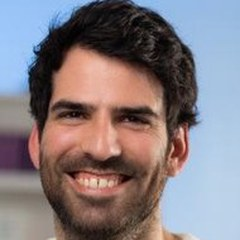
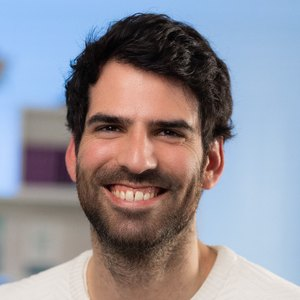
Livre : photos endosseurs couleur, couverture 3D réaliste, en-tête avis Amazon, liens alignés

diff --git a/src/pages/Livre.tsx b/src/pages/Livre.tsx
@@ -91,12 +91,12 @@ export default function Livre() {
       <a href={PDF || AMZ} rel={PDF ? undefined : amzRel} className="btn mt-7">{PDF ? "Lire les 27 premières pages" : "Feuilleter sur Amazon"}</a>
       {PDF && <p className="mt-4"><a href={SAMPLE} target="_blank" rel="sponsored noopener" className="inline-flex min-h-[44px] items-center font-semibold text-terra underline underline-offset-4">Feuilleter sur Amazon</a></p>}</Reveal>
       {PDF && <Reveal className="mt-12"><a href={PDF} aria-label="Ouvrir l'extrait PDF"><img src="/img/extrait-double-page.webp" alt="Double page d'ouverture de l'introduction du livre : Tout commence par nos habitudes" width="1100" height="778" loading="lazy" className="mx-auto w-full rounded-lg border border-sable shadow-2xl transition hover:-translate-y-1"/></a></Reveal>}</section>
-    <section className="bg-pale"><div className="mx-auto max-w-5xl px-5 py-20"><Reveal><div className="kicker">Avis Amazon.fr, achats vérifiés</div><h2 className="h2 mt-3">Ce qu'en disent les lecteurs.</h2></Reveal>
-      <div className="mt-8 grid gap-6 md:grid-cols-3">{reviews.map((r, i) => <Reveal key={r.a} delay={i * 100}><figure className="card h-full p-6"><Stars n={r.s}/><blockquote className="mt-3">« <Hl t={r.q}/> »</blockquote><figcaption className="mt-4 text-sm text-ink/60"><b className="text-ink">{r.a}</b>, Amazon.fr, {r.d}</figcaption></figure></Reveal>)}</div>
+    <section className="bg-pale"><div className="mx-auto max-w-5xl px-5 py-20"><Reveal><div className="kicker">Avis lecteurs vérifiés</div><h2 className="h2 mt-3">Ce qu'en disent les lecteurs.</h2><h3 className="mt-10 text-2xl">Avis Amazon <span className="text-base font-semibold text-ink/60">· 364 avis, 4,5 / 5</span></h3></Reveal>
+      <div className="mt-6 grid gap-6 md:grid-cols-3">{reviews.map((r, i) => <Reveal key={r.a} delay={i * 100}><figure className="card h-full p-6"><Stars n={r.s}/><blockquote className="mt-3">« <Hl t={r.q}/> »</blockquote><figcaption className="mt-4 text-sm text-ink/60"><b className="text-ink">{r.a}</b>, Amazon.fr, {r.d}</figcaption></figure></Reveal>)}</div>
       <h3 className="mt-14 text-2xl">Avis Fnac <span className="text-base font-semibold text-ink/60">· 14 avis, 4,9 / 5</span></h3>
       <div className="mt-6 grid gap-6 md:grid-cols-3">{fnac.map(r => <figure key={r.a} className="card h-full p-6"><Stars n={5}/><blockquote className="mt-3">« <Hl t={r.q}/> »</blockquote><figcaption className="mt-4 text-sm text-ink/60"><b className="text-ink">{r.a}</b>, Avis Fnac, {r.d}{r.v ? ", achat vérifié" : ""}</figcaption></figure>)}</div>
-      <div className="mt-6 flex flex-wrap gap-x-6"><a href={FNAC} target="_blank" rel="noopener" className="inline-flex min-h-[44px] items-center font-bold text-terra underline underline-offset-4">Lire les avis sur la Fnac</a>
-      <a href={AMZ + "#customerReviews"} rel={amzRel} className="mt-6 inline-flex min-h-[44px] items-center font-bold text-terra underline underline-offset-4">Lire les 364 avis sur Amazon</a></div>
+      <div className="mt-8 flex flex-wrap items-center gap-x-8 gap-y-2"><a href={FNAC} target="_blank" rel="noopener" className="inline-flex min-h-[44px] items-center font-bold text-terra underline underline-offset-4">Lire les avis sur la Fnac</a>
+      <a href={AMZ + "#customerReviews"} rel={amzRel} className="inline-flex min-h-[44px] items-center font-bold text-terra underline underline-offset-4">Lire les 364 avis sur Amazon</a></div>
     </div></section>
     <section className="mx-auto grid max-w-5xl items-center gap-10 px-5 py-20 md:grid-cols-[.6fr_1.4fr]"><Reveal><img src={`${A}/portrait-studio.webp`} alt="Portrait d'Onur Karapinar" width="640" height="640" loading="lazy" className="mx-auto w-full max-w-[260px] rotate-2 rounded-3xl shadow-xl"/></Reveal>
       <Reveal delay={100}><div className="kicker">L'auteur</div><h2 className="h2 mt-3">Qui l'a écrit.</h2>

diff --git a/src/index.css b/src/index.css
@@ -23,11 +23,15 @@ body{font-size:17px;line-height:1.65} p{text-wrap:pretty}
 @keyframes draw{to{stroke-dashoffset:0}}
 .card{background-image:none}
 
-.book3d{perspective:1400px}
-.book3d-inner{position:relative;width:100%;height:100%;transform-style:preserve-3d;transform:rotateY(-24deg) rotateX(4deg);transition:transform .6s cubic-bezier(.2,.7,.2,1);filter:drop-shadow(18px 28px 30px rgba(43,43,43,.28))}
-.book3d:hover .book3d-inner{transform:rotateY(-10deg) rotateX(2deg) translateY(-4px)}
-.book3d-front{position:absolute;inset:0;width:100%;height:100%;object-fit:cover;border-radius:2px 6px 6px 2px;transform:translateZ(14px);box-shadow:inset 4px 0 8px rgba(0,0,0,.25)}
-.book3d-front::after{content:""}
-.book3d-spine{position:absolute;top:0;left:0;width:28px;height:100%;background:linear-gradient(90deg,#1f1f1f,#2B2B2B 40%,#3a3a3a);transform:rotateY(-90deg) translateZ(14px) translateX(-14px);transform-origin:left}
-.book3d-pages{position:absolute;top:3px;right:0;width:26px;height:calc(100% - 6px);background:repeating-linear-gradient(90deg,#FDFBF7 0 2px,#E8E2D6 2px 3px);transform:rotateY(90deg) translateZ(-12px) translateX(13px);transform-origin:right}
-@media (prefers-reduced-motion:reduce){.book3d-inner{transition:none}.book3d:hover .book3d-inner{transform:rotateY(-24deg) rotateX(4deg)}}
+
+.book3d{--t:34px;position:relative;aspect-ratio:150/220;perspective:1600px;padding-bottom:0}
+.book3d-inner{position:absolute;inset:0;transform-style:preserve-3d;transform:rotateY(-36deg) rotateX(3deg);transition:transform .7s cubic-bezier(.2,.7,.2,1)}
+.book3d:hover .book3d-inner{transform:rotateY(-18deg) rotateX(2deg) translateY(-6px)}
+.book3d-front{position:absolute;inset:0;width:100%;height:100%;object-fit:cover;border-radius:1px 4px 4px 1px;transform:translateZ(calc(var(--t)/2));backface-visibility:hidden}
+.book3d-inner::after{content:"";position:absolute;inset:0;transform:translateZ(calc(var(--t)/2 + .5px));border-radius:1px 4px 4px 1px;pointer-events:none;background:linear-gradient(90deg,rgba(0,0,0,.28) 0,rgba(255,255,255,.18) 1.6%,rgba(0,0,0,.12) 3.2%,transparent 6%,transparent 70%,rgba(255,255,255,.10) 100%)}
+.book3d-back{position:absolute;inset:1.2% 0;background:#1b2a5c;border-radius:4px 1px 1px 4px;transform:translateZ(calc(var(--t)/-2))}
+.book3d-spine{position:absolute;top:0;left:0;width:var(--t);height:100%;background:linear-gradient(90deg,#141414,#2f2f2f 45%,#1c1c1c);transform-origin:left center;transform:translateZ(calc(var(--t)/-2)) rotateY(-90deg)}
+.book3d-pages{position:absolute;top:1.2%;right:0;width:var(--t);height:97.6%;background:linear-gradient(90deg,rgba(0,0,0,.18),transparent 30%,transparent 70%,rgba(0,0,0,.12)),repeating-linear-gradient(90deg,#FDFBF7 0 1.5px,#cfc5b3 1.5px 2.4px);transform-origin:right center;transform:translateZ(calc(var(--t)/-2)) rotateY(90deg)}
+.book3d-top{display:none;position:absolute;top:0;left:0;width:100%;height:var(--t);background:repeating-linear-gradient(0deg,#FDFBF7 0 1.5px,#cfc5b3 1.5px 2.4px);transform-origin:top center;transform:translateZ(calc(var(--t)/2)) rotateX(90deg);width:98.5%}
+.book3d-shadow{position:absolute;left:8%;right:-6%;bottom:-6%;height:10%;background:radial-gradient(ellipse at center,rgba(43,43,43,.38),transparent 70%);filter:blur(6px);z-index:-1}
+@media (prefers-reduced-motion:reduce){.book3d-inner{transition:none}.book3d:hover .book3d-inner{transform:rotateY(-36deg) rotateX(3deg)}}

diff --git a/src/Book3D.tsx b/src/Book3D.tsx
@@ -1,9 +1,11 @@
 export function Book3D({ src }: { src: string }) {
-  return <div className="book3d mx-auto w-56 md:w-72" style={{ aspectRatio: "150/220" }}>
+  return <div className="book3d mx-auto w-56 md:w-72">
     <div className="book3d-inner">
-      <img src={src} alt="Couverture du livre Petites habitudes, grandes réussites" width="288" height="422" fetchPriority="high" className="book3d-front"/>
-      <span aria-hidden="true" className="book3d-spine"/>
+      <span aria-hidden="true" className="book3d-back"/>
       <span aria-hidden="true" className="book3d-pages"/>
+      <span aria-hidden="true" className="book3d-spine"/>
+      <img src={src} alt="Couverture du livre Petites habitudes, grandes réussites" width="288" height="422" fetchPriority="high" className="book3d-front"/>
     </div>
+    <span aria-hidden="true" className="book3d-shadow"/>
   </div>;
 }
